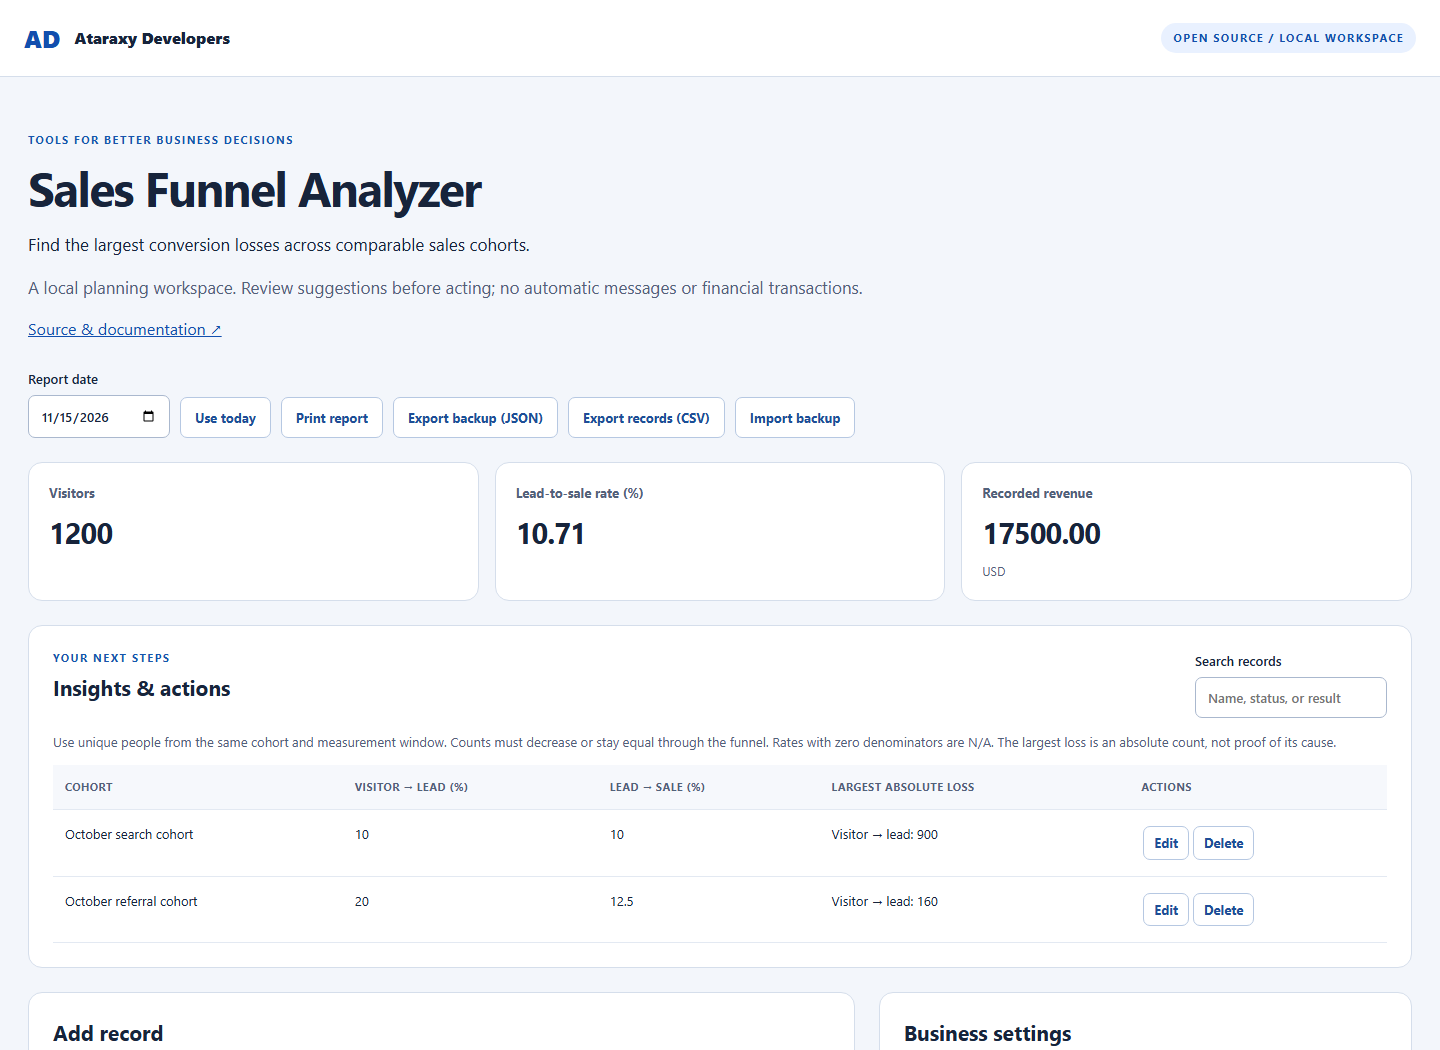
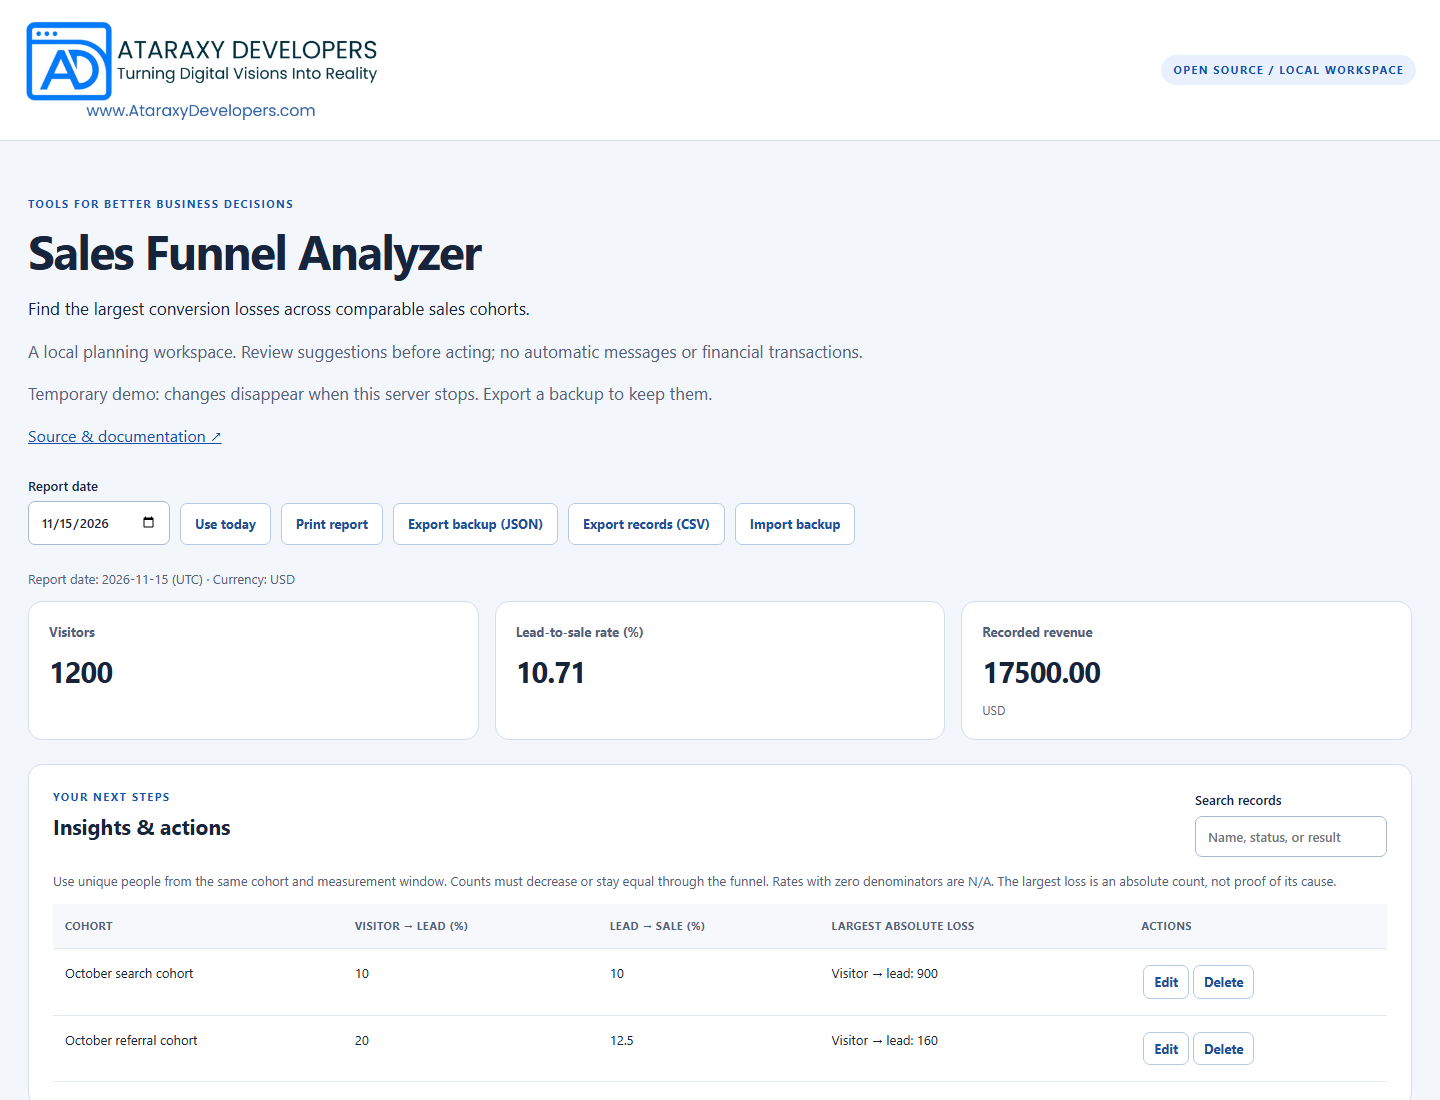
Use approved Ataraxy Developers branding

diff --git a/public/index.html b/public/index.html
@@ -4,16 +4,14 @@
     <meta charset="utf-8" />
     <meta name="viewport" content="width=device-width,initial-scale=1" />
     <title>Business workspace · Ataraxy Developers</title>
-    <link rel="icon" href="/favicon.svg" />
+    <link rel="icon" href="/ataraxy-developers-logo.png" type="image/png" />
     <link rel="stylesheet" href="/style.css" />
     <script type="module" src="/app.js"></script>
   </head>
   <body>
     <a class="skip" href="#main">Skip to workspace</a>
     <header>
-      <a class="brand" href="https://ataraxydevelopers.com"
-        >AD <span>Ataraxy Developers</span></a
-      ><span class="badge">OPEN SOURCE / LOCAL WORKSPACE</span>
+      <a class="brand" href="https://ataraxydevelopers.com"><img src="/ataraxy-developers-logo.png" alt="Ataraxy Developers — Turning Digital Visions Into Reality" width="1127" height="313" /></a><span class="badge">OPEN SOURCE / LOCAL WORKSPACE</span>
     </header>
     <main id="main">
       <section class="hero">

diff --git a/public/style.css b/public/style.css
@@ -40,10 +40,6 @@ header {
   font-weight: 800;
   text-decoration: none;
 }
-.brand span {
-  font-size: 16px;
-  color: #17243b;
-}
 .badge,
 .eyebrow {
   font-size: 11px;
@@ -364,3 +360,9 @@ footer {
     font-size: 27px;
   }
 }
+
+/* Use the complete, original company artwork without distortion. */
+header { flex-wrap: wrap; gap: 16px; background: #fff; }
+.brand { display: block; flex: 0 1 360px; min-width: 0; max-width: 100%; background: #fff; }
+.brand img { display: block; width: 360px; max-width: 100%; height: auto; }
+@media (max-width: 600px) { header { padding: 18px 20px; } .brand { flex-basis: 360px; } }

diff --git a/BRANDING.md b/BRANDING.md
@@ -1,0 +1,10 @@
+# Ataraxy Developers branding
+
+The company-approved logo is [public/ataraxy-developers-logo.png](public/ataraxy-developers-logo.png). It is the original PNG supplied by Ataraxy Developers on 2026-11-16, unchanged.
+
+- Preserve the complete artwork, its aspect ratio, and its white background.
+- Do not redraw it or substitute typed initials, an invented monogram, or generated artwork.
+- Use readable sizing and descriptive alternative text.
+- Capture screenshots from the working interface after this logo has loaded.
+
+SHA-256: 87ebc5a0092af0fff4524e805730ca3dc97c4483bd49f866528b8cdb97d422e7

diff --git a/README.md b/README.md
@@ -1,3 +1,5 @@
+<p><a href="https://ataraxydevelopers.com"><img src="public/ataraxy-developers-logo.png" alt="Ataraxy Developers — Turning Digital Visions Into Reality" width="520"></a></p>
+
 # Sales Funnel Analyzer
 
 [![CI](https://github.com/AtaraxyDevelopers/sales-funnel-analyzer/actions/workflows/ci.yml/badge.svg)](https://github.com/AtaraxyDevelopers/sales-funnel-analyzer/actions/workflows/ci.yml)

diff --git a/CHANGELOG.md b/CHANGELOG.md
@@ -1,5 +1,9 @@
 # Changelog
 
+## 0.1.2 — 2026-11-16
+
+Use the original, approved Ataraxy Developers logo and document its source. Update the interface and browser icon, serve the PNG correctly, and replace the README screenshot with a capture of the corrected app.
+
 ## 0.1.1
 
 - Correct optional date defaults when adding records.
